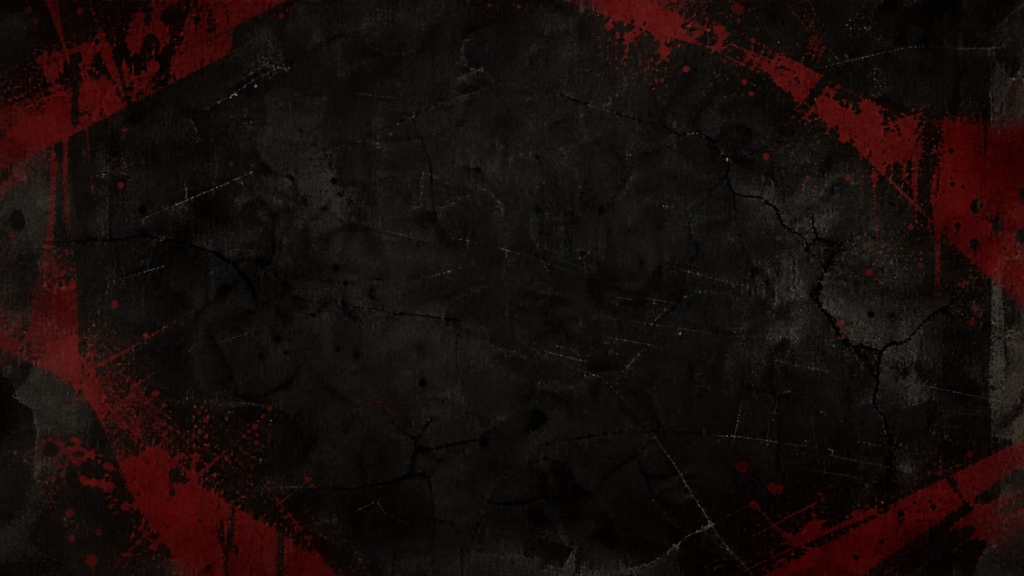
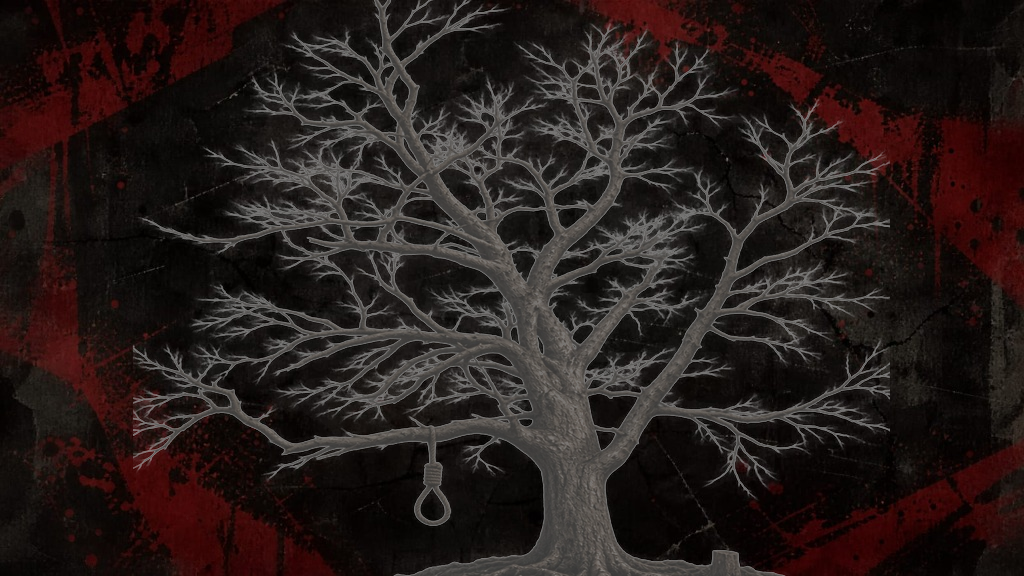
Revert to previous layout and integrate user uploaded background tree and gold address elements

Changed region(s): [[0.125, 0.0, 0.875, 1.0]]

diff --git a/src/routes/index.tsx b/src/routes/index.tsx
@@ -3,6 +3,7 @@ import { Instagram, Linkedin, Mail, MapPin, Send } from "lucide-react";
 import { useState, type FormEvent } from "react";
 import { Button } from "@/components/ui/button";
 import background from "@/assets/background.png";
+import addressGold from "@/assets/address_gold.png";
 
 export const Route = createFileRoute("/")({
   head: () => ({
@@ -106,18 +107,18 @@ function Index() {
 
         <aside className="text-center lg:self-start lg:pt-4 lg:text-left">
           <section aria-labelledby="address-heading">
-            <h2 id="address-heading" className="section-heading">Address</h2>
+            <h2 id="address-heading" className="sr-only">Address</h2>
             <a
-              className="contact-link mx-auto mt-4 block max-w-sm font-body text-sm leading-relaxed text-foreground"
               href="https://maps.google.com/?q=Dwarkadas+J.+Sanghvi+College+of+Engineering,+Vile+Parle+West,+Mumbai+400056"
               target="_blank"
               rel="noopener noreferrer"
+              className="mx-auto block max-w-xs transition-opacity hover:opacity-90"
             >
-              No. U-15, J.V.P.D. Scheme,
-              <br />Bhaktivedanta Swami Marg,
-              <br />Opp. Cooper Hospital,
-              <br />Vile Parle (West),
-              <br />Mumbai – 400 056.
+              <img
+                src={addressGold}
+                alt="Address: No. U-15, J.V.P.D. Scheme, Bhaktivedanta Swami Marg, Opp. Cooper Hospital, Vile Parle (West), Mumbai - 400 056, India"
+                className="mx-auto w-full object-contain drop-shadow-[0_2px_8px_rgba(0,0,0,0.8)]"
+              />
             </a>
 
             <a
